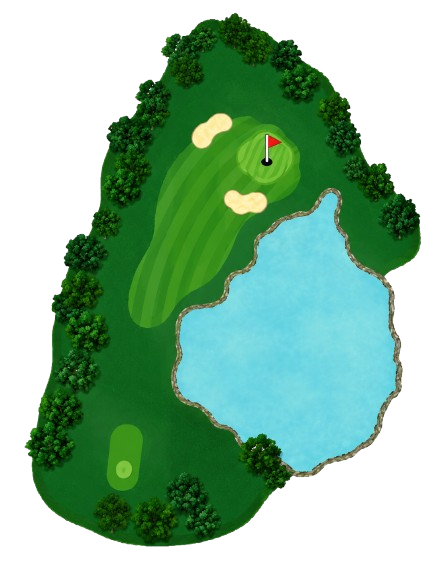
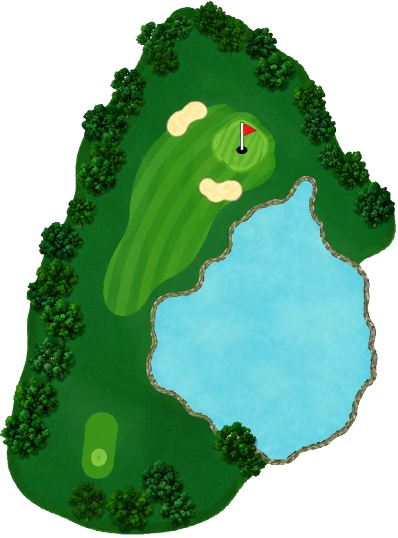
Wii Sports Golf: recalibrated positions, fixed hole rendering and label placement

Changed region(s): [[0.0, 0.0, 0.995, 1.0], [0.5427, 0.4164, 0.603, 0.4758]]

diff --git a/components/FootballGolf.tsx b/components/FootballGolf.tsx
@@ -2286,22 +2286,24 @@ function CourseView({hole,displayBallPos,preAnimBallPos,arcOffset,isAnimating,st
   const bDouble = imageUrl ? 22 : 13  // height of double-line box
   const ballR   = imageUrl ? 3.5 : 3.2
 
+  const useCover = false
+
   return (
     <div style={{userSelect:'none',height:'100%',display:'flex',flexDirection:'column',borderRadius:28,overflow:'hidden',position:'relative',background:imageUrl?'#0a0f1e':undefined}}>
 
-      {/* Real course photo — images are pre-rotated to 600×1560 portrait, display fills naturally */}
+      {/* Real course photo */}
       {imageUrl && (
         <img src={imageUrl} alt="" style={{
           position:'absolute', inset:0,
           width:'100%', height:'100%',
-          objectFit:'contain', objectPosition:'center',
+          objectFit: useCover ? 'cover' : 'contain', objectPosition:'center',
           ...(rot ? {transform:`rotate(${rot}deg)`} : {}),
         }}/>
       )}
       {/* Minimal scrim — just enough to keep labels readable without darkening bunkers */}
       {imageUrl && <div style={{position:'absolute',inset:0,background:'rgba(0,0,0,0.05)',pointerEvents:'none'}}/>}
 
-      <svg width="100%" height="100%" viewBox={imageUrl ? `0 0 100 ${realYScale??260}` : "0 -10 100 165"} preserveAspectRatio={imageUrl ? "xMidYMid meet" : "xMidYMid slice"} style={{display:'block',flex:1,position:'relative'}}>
+      <svg width="100%" height="100%" viewBox={imageUrl ? `0 0 100 ${realYScale??260}` : "0 -10 100 165"} preserveAspectRatio={imageUrl ? (useCover ? "xMidYMid slice" : "xMidYMid meet") : "xMidYMid slice"} style={{display:'block',flex:1,position:'relative'}}>
         <defs>
           <linearGradient id="fairway" x1="0" y1="35" x2="0" y2="255" gradientUnits="userSpaceOnUse">
             <stop offset="0%" stopColor="#1a4a1a"/>
@@ -2507,7 +2509,7 @@ function CourseView({hole,displayBallPos,preAnimBallPos,arcOffset,isAnimating,st
           const rangeText = `${distToNear}–${distToFar}`
           const fs = labelFs * 0.85
           const pw = imageUrl ? 40 : 20; const ph = imageUrl ? 10 : 5
-          const px = mid.x + 6; const py = mid.y - ph/2
+          const px = mid.x > 50 ? mid.x - pw - 6 : mid.x + 6; const py = mid.y - ph/2
           return (
             <g key={i}>
               <rect x={px} y={py} width={pw} height={ph} rx={ph/2} fill="rgba(210,170,80,0.92)" stroke="#92600a" strokeWidth={0.9}/>
@@ -2690,18 +2692,18 @@ const HOLE_POSITIONS: Record<number, {teeFrac:[number,number]; greenFrac:[number
 }
 // Wii Golf images have varying aspect ratios — yScale = 100/(w/h)
 const WII_GOLF_YSCALE: Record<number, number> = {
-  1: 100/(377/662),   // 175.6
-  2: 100/(444/562),   // 126.6
-  3: 100/(1024/1536), // 150.0
+  1: 100/(246/627),   // 254.9 — portrait, use contain
+  2: 100/(398/538),   // 135.2 — wide, use cover
+  3: 100/(629/1443),  // 229.4 — portrait, use contain
 }
 const WII_GOLF_POSITIONS: Record<number, {teeFrac:[number,number]; greenFrac:[number,number]; waypointFracs?:[number,number][]}> = {
-  1: {teeFrac:[0.481,0.918], greenFrac:[0.49,0.15],   waypointFracs:[[0.379,0.43]]},
-  2: {teeFrac:[0.283,0.835], greenFrac:[0.602,0.286],  waypointFracs:[[0.479,0.58],[0.546,0.422]]},
-  3: {teeFrac:[0.346,0.875], greenFrac:[0.359,0.095],  waypointFracs:[[0.768,0.685],[0.702,0.281]]},
+  1: {teeFrac:[0.502,0.946], greenFrac:[0.506,0.134], waypointFracs:[[0.351,0.436]]},
+  2: {teeFrac:[0.247,0.848], greenFrac:[0.609,0.277], waypointFracs:[[0.491,0.569],[0.544,0.494]]},
+  3: {teeFrac:[0.238,0.909], greenFrac:[0.253,0.078], waypointFracs:[[0.918,0.62],[0.774,0.276]]},
 }
 const WII_GOLF_HAZARDS: Record<number, { hazards?: {start:number;end:number}[]; bunkers?: {start:number;end:number}[] }> = {
-  1: {bunkers:[{start:183,end:232},{start:332,end:337}]},
-  2: {hazards:[{start:29,end:62}], bunkers:[{start:105,end:116}]},
+  1: {bunkers:[{start:185,end:236},{start:332,end:347}]},
+  2: {hazards:[{start:27,end:82}], bunkers:[{start:113,end:121}]},
 }
 
 // Augusta images have varying heights — yScale = 100/(w/h) so viewBox always 100 wide

diff --git a/app/golf-calibrate/page.tsx b/app/golf-calibrate/page.tsx
@@ -73,9 +73,9 @@ const HOLE_DISTANCES_AUGUSTA: Record<number, number> = {
 }
 
 const SAVED_POSITIONS_WII: Record<number, { teeFrac: FracPt; greenFrac: FracPt; waypointFracs?: FracPt[] }> = {
-  1: {teeFrac:[0.481,0.918], greenFrac:[0.49,0.15],   waypointFracs:[[0.379,0.43]]},
-  2: {teeFrac:[0.283,0.835], greenFrac:[0.602,0.286],  waypointFracs:[[0.479,0.58],[0.546,0.422]]},
-  3: {teeFrac:[0.346,0.875], greenFrac:[0.359,0.095],  waypointFracs:[[0.768,0.685],[0.702,0.281]]},
+  1: {teeFrac:[0.502,0.946], greenFrac:[0.506,0.134], waypointFracs:[[0.351,0.436]]},
+  2: {teeFrac:[0.247,0.848], greenFrac:[0.609,0.277], waypointFracs:[[0.491,0.569],[0.544,0.494]]},
+  3: {teeFrac:[0.238,0.909], greenFrac:[0.253,0.078], waypointFracs:[[0.918,0.62],[0.774,0.276]]},
 }
 const HOLE_DISTANCES_WII: Record<number, number> = {
   1: 370, 2: 134, 3: 465,